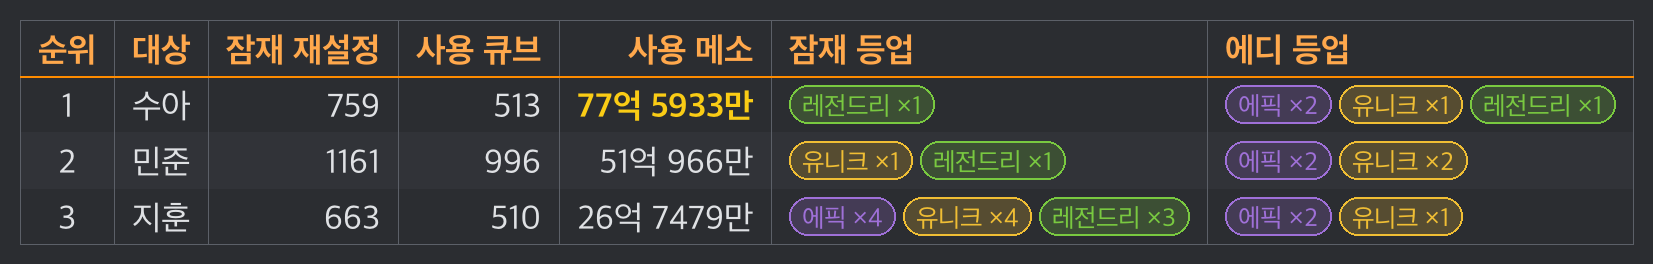
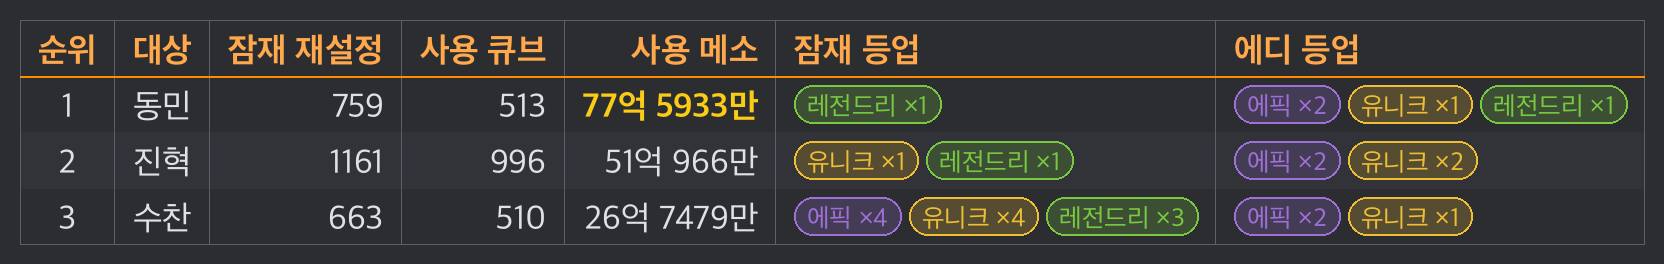
fix: 튜토리얼 스크롤 영역 풀폭 + 예시 유저명 수찬·동민·진혁 통일 (#61)
* fix: 튜토리얼 본문 스크롤 영역 풀폭 확장 — 좌우 어디서든 휠 스크롤

.mm-tut-body(스크롤 컨테이너)가 max-width 820px 중앙 컬럼이라 좌우 여백에서
휠이 안 먹던 것을, 컨테이너는 풀폭으로 두고 padding-inline: max(24px,
calc((100% - 772px) / 2)) 로 콘텐츠 폭(772px)·중앙 정렬은 픽셀 동일 유지.
스크롤바는 화면 오른쪽 끝으로 이동.

* docs: 사이트 예시 디스코드 유저명 수찬·동민·진혁으로 통일

지훈·수아·민준 → 수찬·동민·진혁 (아바타 색상 유지, 이니셜 지→수·수→동).
- 컴포넌트 4곳: 랜딩 히어로(DiscordDemo)·튜토리얼 목업(TutorialDemos)·
  멤버 팝업 캐스트(CommandSequenceDemo)·S6/S9 시퀀스(commandSequenceScripts)
- 이름이 이미지에 박힌 데모샷 3장 재렌더(render_demo_shots.py):
  demo-potential_30d·demo-starforce_rand·demo-starforce_target + 픽스처 3개
- 무관 데모샷 5장은 재렌더 시 타 머신 폰트 드리프트(수 px 폭 차)만 있어 원복

diff --git a/site/components/commandSequenceScripts.tsx b/site/components/commandSequenceScripts.tsx
@@ -224,14 +224,14 @@ export const S6_SCRIPT: Run[] = [
       />
     ),
   },
-  // 3. 느림 · 칩에서 유저1 선택 → 멤버 목록 → @지훈
+  // 3. 느림 · 칩에서 유저1 선택 → 멤버 목록 → @수찬
   {
     speed: 'slow',
     cmd: '경험치',
     desc: '레벨 추이 리더보드',
     startAt: 'chips',
     params: expParams({
-      유저1: { p: '유저1', v: '@지훈', pick: 'member' },
+      유저1: { p: '유저1', v: '@수찬', pick: 'member' },
     }),
     reply: (
       <RankEmbed
@@ -245,15 +245,15 @@ export const S6_SCRIPT: Run[] = [
       />
     ),
   },
-  // 4. 빠름 · /스펙 유저1:@수아 유저2:@지훈 유저3:@민준
+  // 4. 빠름 · /스펙 유저1:@동민 유저2:@수찬 유저3:@진혁
   {
     speed: 'fast',
     cmd: '스펙',
     desc: '전투력·스펙 비교',
     params: [
-      { p: '유저1', v: '@수아' },
-      { p: '유저2', v: '@지훈' },
-      { p: '유저3', v: '@민준' },
+      { p: '유저1', v: '@동민' },
+      { p: '유저2', v: '@수찬' },
+      { p: '유저3', v: '@진혁' },
     ],
     reply: (
       <TableEmbed
@@ -306,7 +306,7 @@ export const S6_SCRIPT: Run[] = [
     reply: (
       <TableEmbed
         title="내 캐릭터 스펙 비교"
-        targets="지훈"
+        targets="수찬"
         footer="최신 기준 · NEXON Open API"
         run="mychar_spec"
         alt="/내캐릭터 스펙 비교 카드"
@@ -329,13 +329,13 @@ export const S9_SCRIPT: Run[] = [
     reply: (
       <TableEmbed
         title="스타포스 운빨 비교"
-        targets="지훈 · 수아"
+        targets="수찬 · 동민"
         fields={[
           {
             h: '⚠ 조회 실패 (1명)',
             body: (
               <>
-                • <b>민준</b> — 기간 내 10성 이상 강화 기록이 없어요.
+                • <b>진혁</b> — 기간 내 10성 이상 강화 기록이 없어요.
               </>
             ),
           },
@@ -348,19 +348,19 @@ export const S9_SCRIPT: Run[] = [
       />
     ),
   },
-  // 2. 느림 · 칩에서 대상1 선택 → 멤버 목록 → @수아
+  // 2. 느림 · 칩에서 대상1 선택 → 멤버 목록 → @동민
   {
     speed: 'slow',
     cmd: '스타포스',
     desc: '스타포스 운빨 비교',
     startAt: 'chips',
     params: starforceParams({
-      대상1: { p: '대상1', v: '@수아', pick: 'member' },
+      대상1: { p: '대상1', v: '@동민', pick: 'member' },
     }),
     reply: (
       <TableEmbed
         title="스타포스 운빨 비교"
-        targets="수아"
+        targets="동민"
         fields={[FIELD_ACCOUNT_SUM, FIELD_STARFORCE_SCOPE]}
         footer="2026-06-28 ~ 2026-07-04 · NEXON Open API"
         run="starforce_target"
@@ -377,7 +377,7 @@ export const S9_SCRIPT: Run[] = [
     reply: (
       <TableEmbed
         title="잠재 메소·큐브 비교"
-        targets="수아 · 민준 · 지훈"
+        targets="동민 · 진혁 · 수찬"
         fields={[FIELD_ACCOUNT_SUM]}
         footer="키 등록자 전원(3명)을 비교했어요 · 2026-06-05 ~ 2026-07-04 · NEXON Open API"
         run="potential_30d"

diff --git a/site/components/CommandSequenceDemo.tsx b/site/components/CommandSequenceDemo.tsx
@@ -65,12 +65,12 @@ function UserLine({ text }: { text: string }) {
   return (
     <div className="mm-chat-line mm-chat-msg">
       <span className="mm-chat-av" style={{ background: '#e0a030' }}>
-        지
+        수
       </span>
       <div className="mm-chat-content">
         <div className="mm-chat-meta">
           <span className="mm-chat-name" style={{ color: '#e0a030' }}>
-            지훈
+            수찬
           </span>
         </div>
         <span className="mm-chat-cmd">{text}</span>
@@ -133,11 +133,11 @@ function CommandPopup({ run }: { run: Run }) {
   )
 }
 
-/** 멤버 목록 팝업 캐스트(작업지시서 §3 — 지훈·수아·민준). */
+/** 멤버 목록 팝업 캐스트(작업지시서 §3 — 수찬·동민·진혁). */
 const MEMBERS = [
-  { n: '지훈', c: '#e0a030' },
-  { n: '수아', c: '#5865f2' },
-  { n: '민준', c: '#3ba55d' },
+  { n: '수찬', c: '#e0a030' },
+  { n: '동민', c: '#5865f2' },
+  { n: '진혁', c: '#3ba55d' },
 ]
 
 /** run 의 pick 파라미터 목록(채우는 장면 순서 기준). */
@@ -147,7 +147,7 @@ function pickParamsOf(run: Run): RunParam[] {
 
 /**
  * fill 국면 값 선택 팝업 — pick:'choice' 는 선택지 목록(본서버/챌린저스),
- * pick:'member' 는 멤버 목록(지훈·수아·민준). 선택될 항목이 하이라이트된다.
+ * pick:'member' 는 멤버 목록(수찬·동민·진혁). 선택될 항목이 하이라이트된다.
  */
 function ValuePicker({ prm }: { prm: RunParam }) {
   const target = prm.v?.replace(/^@/, '')

diff --git a/site/components/TutorialDemos.tsx b/site/components/TutorialDemos.tsx
@@ -19,7 +19,7 @@ function UserCmd({ cmd }: { cmd: string }) {
       <div className="mm-chat-content">
         <div className="mm-chat-meta">
           <span className="mm-chat-name" style={{ color: '#e0a030' }}>
-            지훈
+            수찬
           </span>
         </div>
         <span className="mm-chat-cmd">{cmd}</span>
@@ -223,10 +223,10 @@ export function TargetDemo() {
         </div>
       </div>
       <div className="mm-tut-target-col">
-        <span className="mm-chat-cmd">/유니온 대상:@수아</span>
+        <span className="mm-chat-cmd">/유니온 대상:@동민</span>
         <ArrowDown size={16} strokeWidth={2} className="mm-tut-target-arrow" aria-hidden />
         <div className="mm-tut-target-out">
-          <b>수아</b>의 대표 캐릭터만 비교
+          <b>동민</b>의 대표 캐릭터만 비교
         </div>
       </div>
     </div>

diff --git a/site/app/tutorial.css b/site/app/tutorial.css
@@ -83,13 +83,14 @@
 }
 
 /* ---- 본문: 큰 제목 1~2줄 + 미디어 + (doors/summary) ---- */
+/* 스크롤 컨테이너는 풀폭 — 좌우 어디서 휠을 굴려도 스크롤되게.
+   콘텐츠 폭(종전 max-width 820px − 패딩 48px = 772px 중앙 컬럼)은
+   padding-inline 계산으로 동일 유지. */
 .mm-tut-body {
   flex: 1;
   overflow-y: auto;
   width: 100%;
-  max-width: 820px;
-  margin: 0 auto;
-  padding: 44px 24px 32px;
+  padding: 44px max(24px, calc((100% - 772px) / 2)) 32px;
   text-align: center;
 }
 .mm-tut-kicker {
@@ -832,7 +833,7 @@
     display: none;
   }
   .mm-tut-body {
-    padding: 30px 18px 24px;
+    padding: 30px max(18px, calc((100% - 772px) / 2)) 24px;
   }
   .mm-tut-title {
     font-size: 24px;

diff --git a/site/components/DiscordDemo.tsx b/site/components/DiscordDemo.tsx
@@ -28,9 +28,9 @@ type BotItem = { who: 'bot'; reply: React.ReactNode }
 type Item = UserItem | BotItem
 
 const SCRIPT: Item[] = [
-  { who: 'user', author: '지훈', color: '#e0a030', initial: '지', cmd: '/경험치' },
+  { who: 'user', author: '수찬', color: '#e0a030', initial: '수', cmd: '/경험치' },
   { who: 'bot', reply: <LeaderboardEmbed rows={5} /> },
-  { who: 'user', author: '수아', color: '#5865f2', initial: '수', cmd: '/유니온' },
+  { who: 'user', author: '동민', color: '#5865f2', initial: '동', cmd: '/유니온' },
   { who: 'bot', reply: <UnionMini /> },
 ]
 
